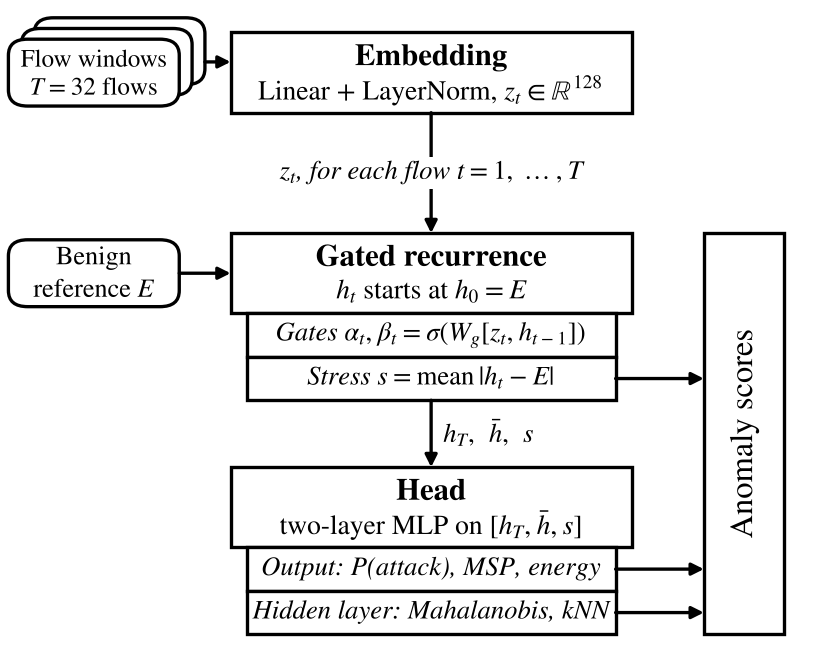
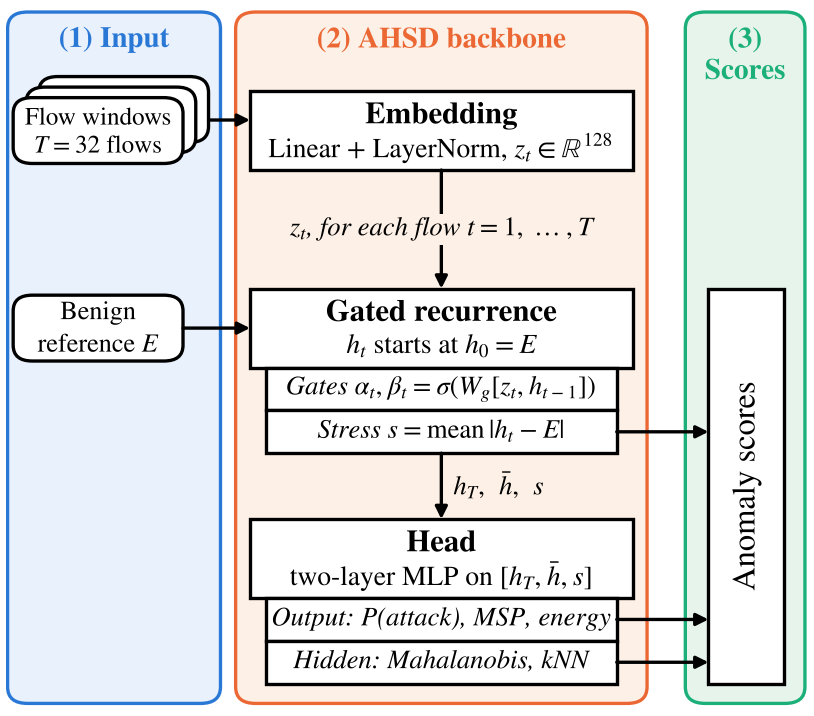
AHSD diagram: coloured input / backbone / scores panels
Claude-Session: https://claude.ai/code/session_01LmdWFNgatKQB5uMLcpPZvX

diff --git a/paper/hone_user/fig_ahsd_arch_col.py b/paper/hone_user/fig_ahsd_arch_col.py
@@ -16,13 +16,24 @@ K, LW = "black", 0.8
 F_T, F_S, F_I = 7.4, 6.6, 6.4            # title, subtitle, italic sub-row font sizes
 
 XI, WI = 0.3, 24.5                         # panel 1: inputs
-XM, WM = 28, 50                          # panel 2: AHSD stages
-XO, WO = 87, 10                          # panel 3: scores
+XM, WM = 30, 48                          # panel 2: AHSD stages
+XO, WO = 87.5, 9.5                          # panel 3: scores
 HB, HS = 12, 6.5                         # main box / sub-row heights
 YE, YR, YH = 70, 40, 5                   # rows: embedding, recurrence, head (bottom of main boxes)
 
-fig, ax = plt.subplots(figsize=(3.45, 2.75))
-ax.set_xlim(0, 100); ax.set_ylim(-9, 86); ax.axis("off")
+fig, ax = plt.subplots(figsize=(3.45, 3.05))
+ax.set_xlim(-0.6, 100); ax.set_ylim(-12, 95); ax.axis("off")
+
+# three coloured background panels: (1) input, (2) AHSD backbone, (3) scores
+PANELS = [((-0.4, 26.3), "#e8f1fc", "#2a78d6", "(1) Input"),
+          ((28.2, 79.8), "#fdf0e6", "#eb6834", "(2) AHSD backbone"),
+          ((84.6, 99.6), "#e6f4ec", "#1baf7a", "(3)\nScores")]
+PY0, PY1 = -11, 94
+for (x0, x1), fill, edge, title in PANELS:
+    ax.add_patch(FancyBboxPatch((x0, PY0), x1 - x0, PY1 - PY0, boxstyle="round,pad=0,rounding_size=2.5",
+                                fc=fill, ec=edge, lw=0.8, zorder=0))
+    ax.text((x0 + x1) / 2, PY1 - 2.0, title, ha="center", va="top", fontsize=7, weight="bold", color=edge, linespacing=1.0)
+PANEL_BG = "#fdf0e6"
 
 
 def rbox(x, y, w, h, lines):
@@ -63,7 +74,7 @@ subrow(YR - HS, "Gates $\\alpha_t,\\beta_t=\\sigma(W_g[z_t,h_{t-1}])$")
 y_stress = subrow(YR - 2 * HS, "Stress $s=\\mathrm{mean}\\,|h_t-E|$")
 sbox(YH, "Head", "two-layer MLP on $[h_T,\\bar h,s]$")
 y_out = subrow(YH - HS, "Output: $P$(attack), MSP, energy")
-y_hid = subrow(YH - 2 * HS, "Hidden layer: Mahalanobis, $k$NN")
+y_hid = subrow(YH - 2 * HS, "Hidden: Mahalanobis, $k$NN")
 
 # panel 3: scores (tall box, rotated text)
 y0, y1 = YH - 2 * HS, YR + HB
@@ -75,7 +86,7 @@ arrow((XI + WI, YE + HB / 2 + 1.6), (XM, YE + HB / 2 + 1.6))
 arrow((XI + WI - 3.2, YR + HB / 2), (XM, YR + HB / 2))
 arrow((XM + WM / 2, YE), (XM + WM / 2, YR + HB))
 ax.text(XM + WM / 2, (YE + YR + HB) / 2, "$z_t$, for each flow $t=1,\\dots,T$", ha="center", va="center",
-        fontsize=F_I, style="italic", bbox=dict(fc="white", ec="none", pad=0.6))
+        fontsize=F_I, style="italic", bbox=dict(fc=PANEL_BG, ec="none", pad=0.6))
 arrow((XM + WM / 2, YR - 2 * HS), (XM + WM / 2, YH + HB))
 ax.text(XM + WM / 2 + 1.5, (YR - 2 * HS + YH + HB) / 2, "$h_T,\\ \\bar h,\\ s$", ha="left", va="center",
         fontsize=F_I)

diff --git a/paper/hone_user/appendix_ahsd.tex b/paper/hone_user/appendix_ahsd.tex
@@ -9,7 +9,7 @@ AHSD (Adaptive Homeostatic Sequence Detector) is the recurrent backbone that pro
 \begin{figure}[!t]
 \centering
 \includegraphics[width=\columnwidth]{fig_ahsd_arch_col.pdf}
-\caption{AHSD architecture (fixed variant). Rounded boxes are inputs, square boxes are processing stages with their parts listed beneath, and the right panel collects the anomaly scores. The recurrence runs once per flow of a 32-flow window, starting from $h_0=E$.}
+\caption{AHSD architecture (fixed variant) in three panels: (1) inputs, (2) the AHSD backbone, whose stages list their parts beneath, and (3) the anomaly scores it produces. The recurrence runs once per flow of a 32-flow window, starting from $h_0=E$.}
 \label{fig:ahsd}
 \end{figure}
 
